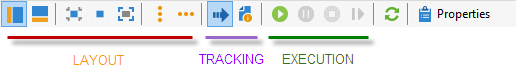
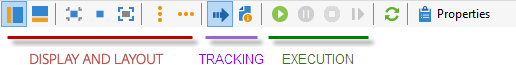
DOCAC-7006 (logs display)

Changed region(s): [[0.031, 0.8, 0.3411, 1.0]]

diff --git a/help/workflow/using/building-a-workflow.md b/help/workflow/using/building-a-workflow.md
@@ -90,7 +90,10 @@ You can change the display and layout of the chart using the following elements:
 
   ![](assets/s_user_segmentation_toolbar.png)
 
-  Icons related to tracking and launching an advanced targeting workflow are detailed in this [section](../../campaign/using/marketing-campaign-deliveries.md#creating-a-targeting-workflow).
+  Icons related to progress and logs display are detailed in these sections:
+  
+    * [Displaying progress](../../workflow/using/monitoring-workflow-execution.md#displaying-progress)
+    * [Displaying logs](../../workflow/using/monitoring-workflow-execution.md#displaying-logs)
 
 * **Object alignment**
 
